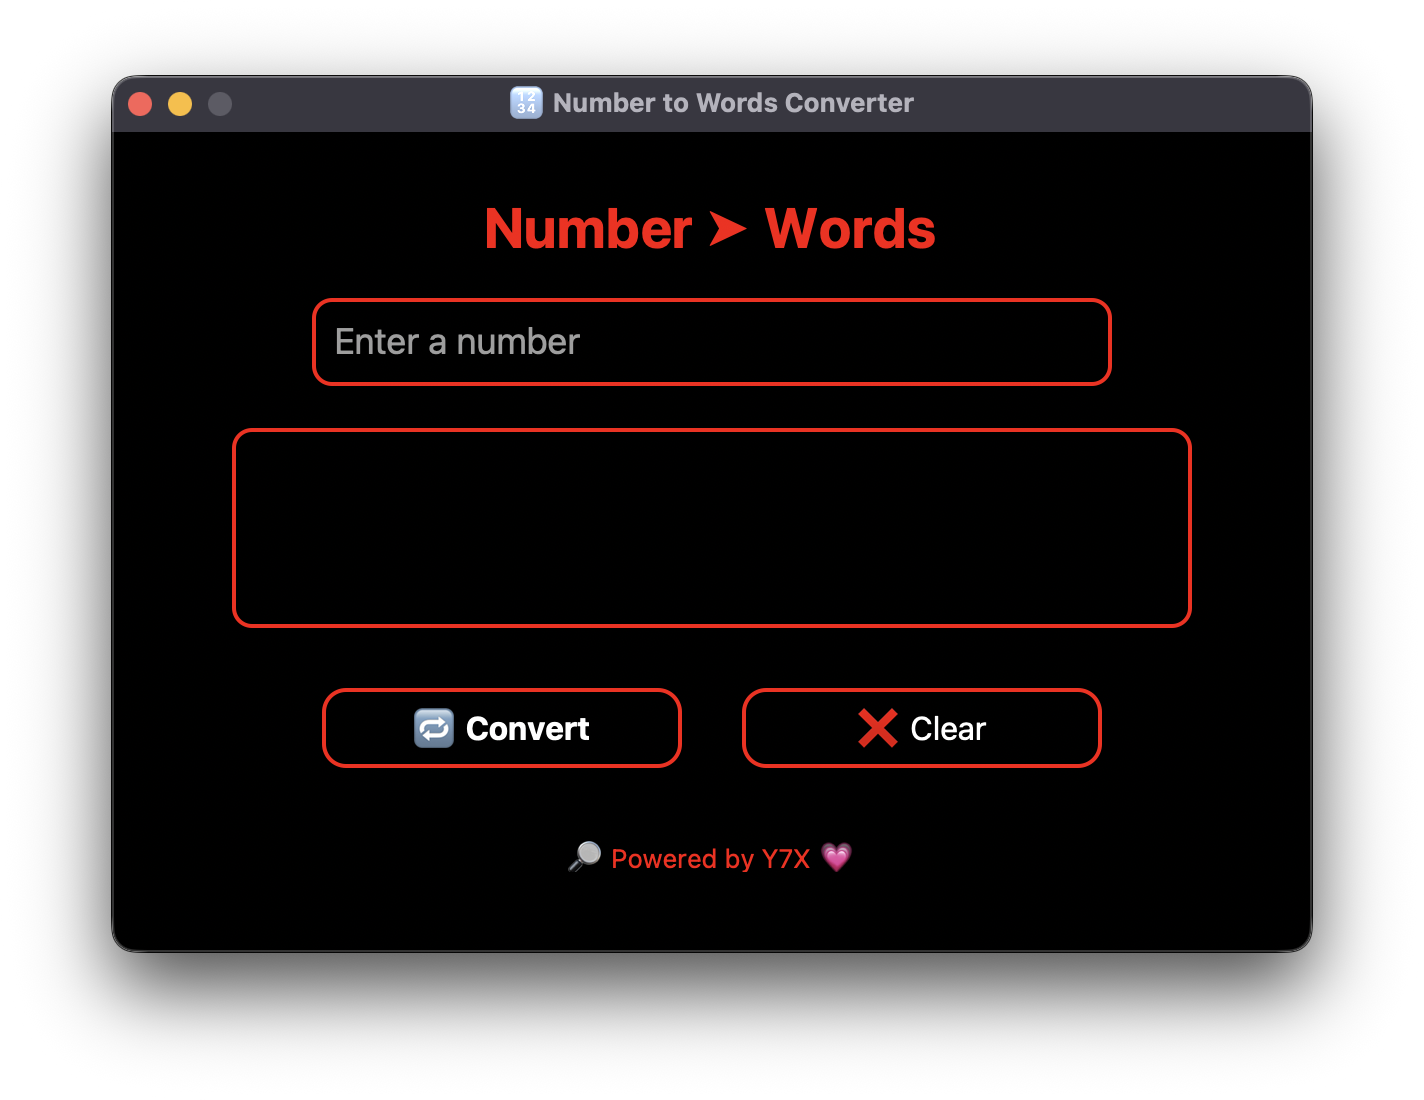
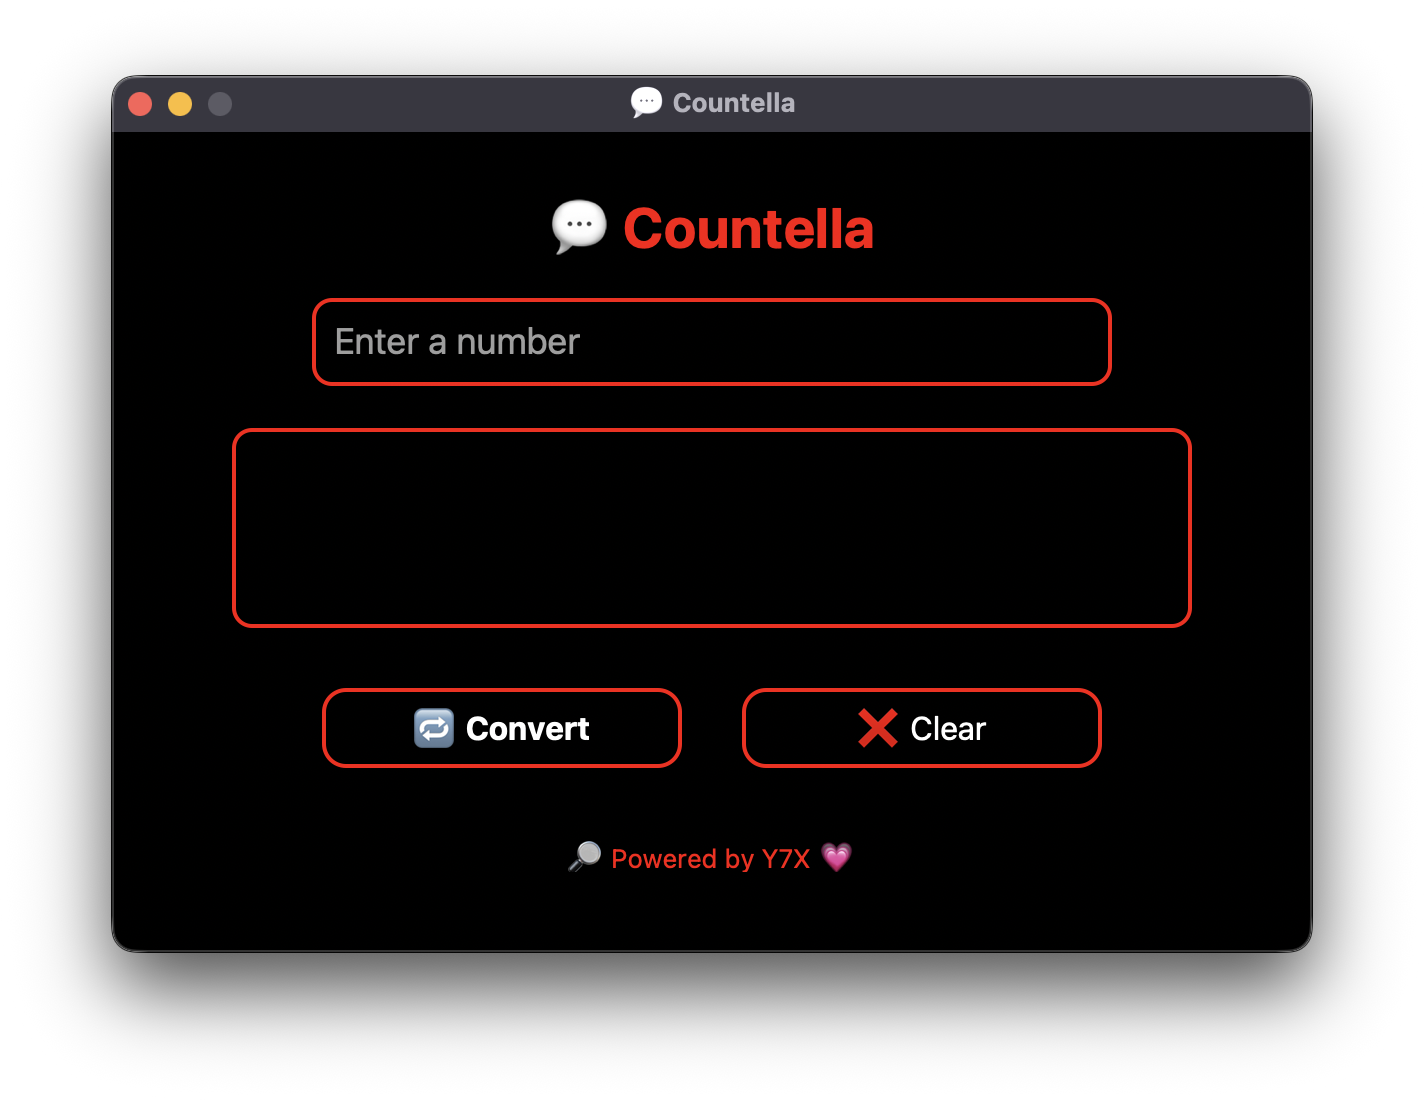
✍ Words now glow. Numbers bow down.

Changed region(s): [[0.3399, 0.1855, 0.6798, 0.2473], [0.3399, 0.0618, 0.6489, 0.1236]]

diff --git a/Countella.py b/Countella.py
@@ -56,13 +56,13 @@ ctk.set_appearance_mode("dark")
 ctk.set_default_color_theme("dark-blue")
 
 app = ctk.CTk()
-app.title("🔢 Number to Words Converter")
+app.title("💬 Countella")
 app.geometry("600x410")
 app.configure(fg_color="#000000")
 app.resizable(False, False)
 
 # Title
-title = ctk.CTkLabel(app, text="Number ➤ Words", font=("Segoe UI", 28, "bold"),
+title = ctk.CTkLabel(app, text="💬 Countella", font=("Segoe UI", 28, "bold"),
                      text_color="#FF0000", bg_color="#000000")
 title.pack(pady=(30, 10))
 
@@ -85,7 +85,7 @@ output_label.configure(state="disabled")
 btn_frame = ctk.CTkFrame(app, fg_color="#000000", bg_color="#000000")
 btn_frame.pack(pady=10)
 
-# Convert Button (transparent + red border)
+# Convert Button
 convert_btn = ctk.CTkButton(btn_frame, text="🔁 Convert", command=convert_number,
                              width=180, height=40, fg_color="#000000", text_color="white",
                              hover_color="#1a1a1a", border_color="#FF0000", border_width=2,
@@ -93,7 +93,7 @@ convert_btn = ctk.CTkButton(btn_frame, text="🔁 Convert", command=convert_numb
                              bg_color="#000000")
 convert_btn.grid(row=0, column=0, padx=15)
 
-# Clear Button (same red border + black fill)
+# Clear Button
 clear_btn = ctk.CTkButton(btn_frame, text="❌ Clear", command=clear_all,
                            width=180, height=40, fg_color="#000000", text_color="white",
                            hover_color="#1a1a1a", border_color="#FF0000", border_width=2,

diff --git a/README.md b/README.md
@@ -1,17 +1,19 @@
-<h1 align="center">🔢 Number to Words Converter</h1>
+<div align="center">
 
-<p align="center">
-  <img src="assets/1.png" alt="Preview" width="700"/>
-</p>
+# 🎯 Countella
+**✍ Words now glow. Numbers bow down.**
 
-<p align="center">
-  <b>Turn numbers into words, the aesthetic way. Powered by Python. Styled by Y7X.</b><br>
-  <code>AMOLED GUI • Red Outline • White Text • CustomTkinter</code>
-</p>
+Turn numbers into words, the aesthetic way. Powered by Python. Styled by Y7X.
+AMOLED GUI • Red Outline • White Text • CustomTkinter
+Branded with 💗 by [Y7X-bit](https://github.com/Y7X-bit)
+
+<img src="assets/1.png" width="600"/>
+
+</div>
 
 ---
 
-## ✨ Features
+## 🌟 Features at a Glance
 
 - 🖤 **True AMOLED** pitch black interface
 - 🔴 **Red outlined inputs & buttons**
@@ -23,9 +25,12 @@
 
 ---
 
-## 🚀 Getting Started
+## 🖥 Installation
 
-### 1. Clone this repo:
+> Python 3.9 or later required
+
 ```bash
-git clone https://github.com/Y7X-bit/number-to-words
-cd number-to-words
+git clone https://github.com/Y7X-bit/Countella.git
+cd Countella
+pip install -r requirements.txt
+python Countella.py
